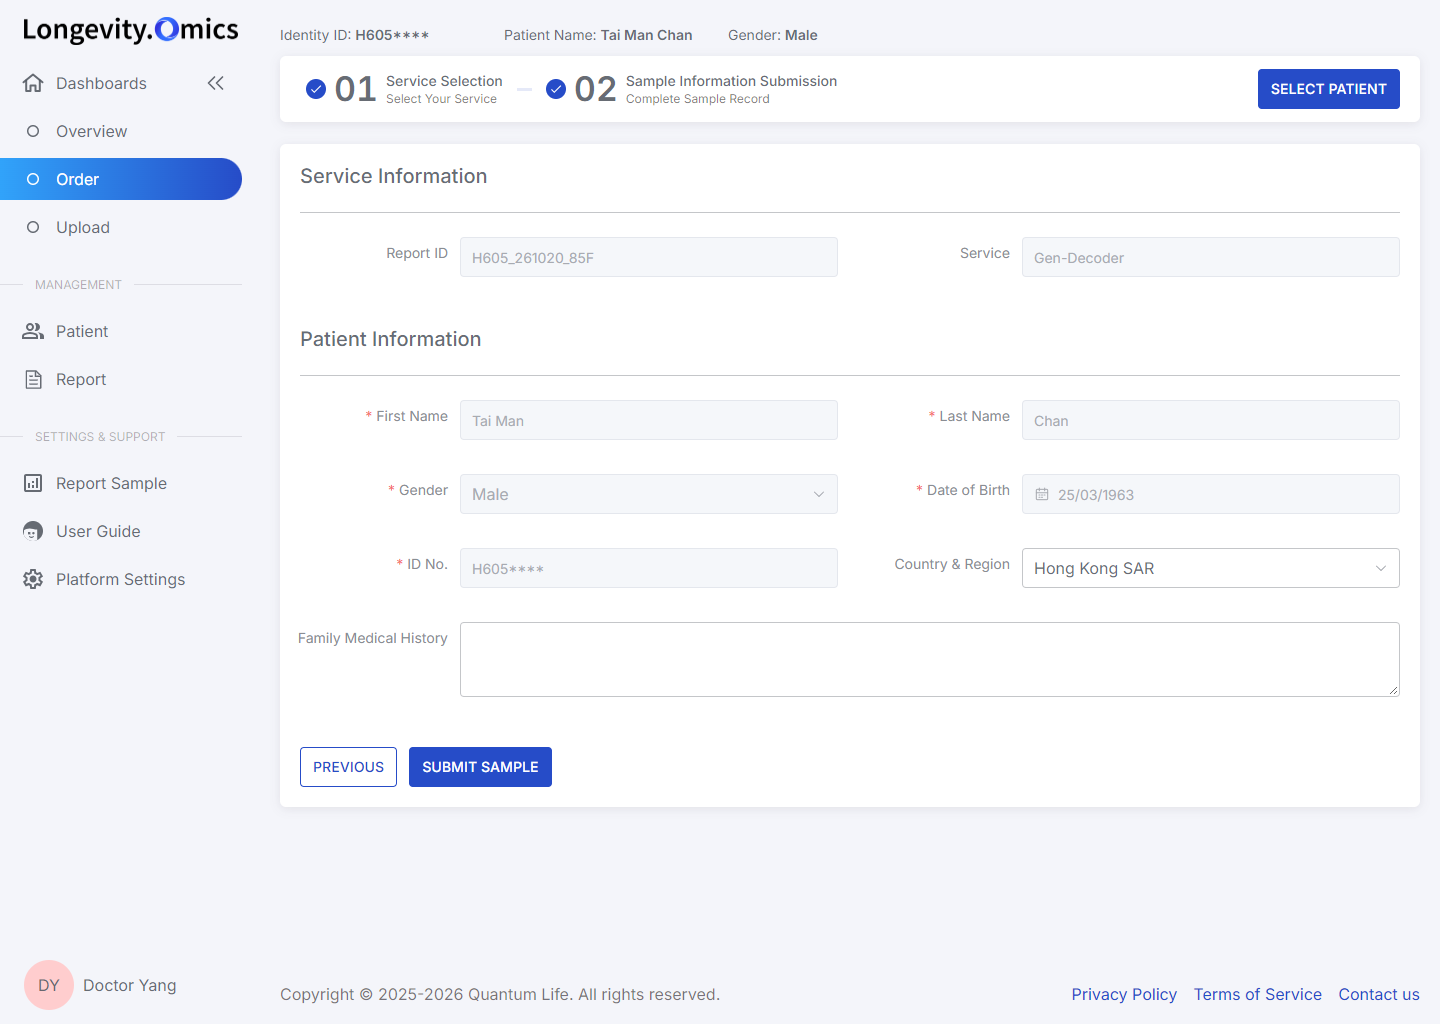
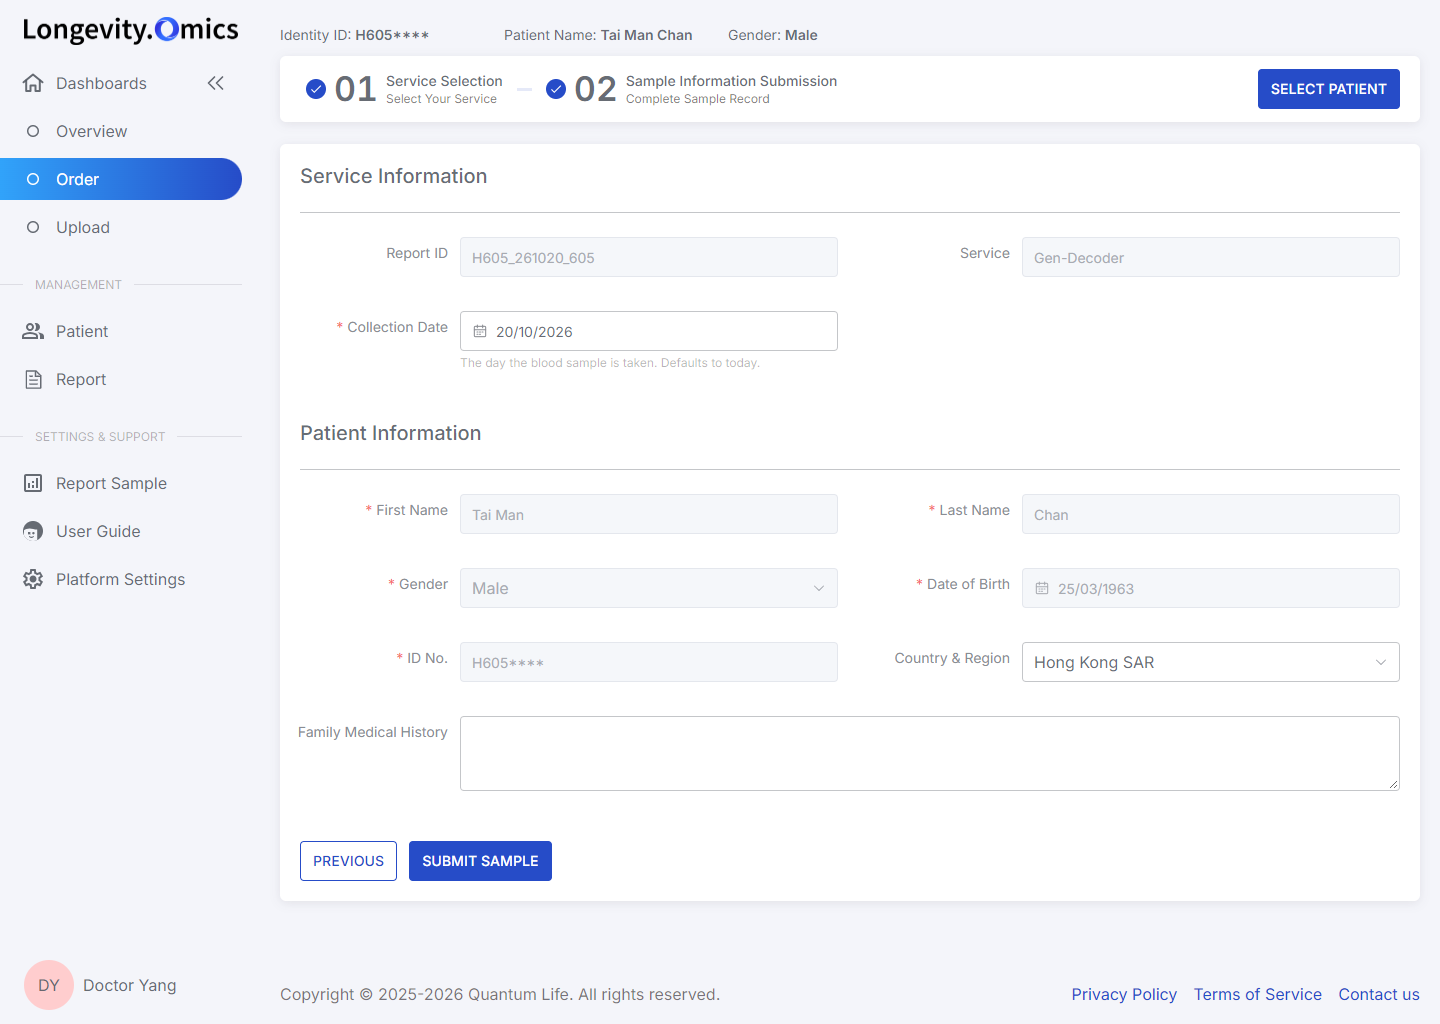
Order step 2: Collection Date in Service Information
- Tests (Gen-Decoder, Epi-Insight, bundle) get a required Collection Date, defaulting to today; future dates cannot be picked
- Omni-Health shows a read-only Created Date instead, since no sample is collected
- Submitted test orders are dated by the chosen collection date in Report Management and the patient file
- Form popovers (calendar and dropdowns) now anchor to the form card

diff --git a/index.html b/index.html
@@ -279,7 +279,7 @@ tr.other .tag{opacity:.75}
 .rm-body{font-size:14px;line-height:20px;color:var(--text)}
 .rm-body .note{margin-top:0}
 .rm-body p{margin-top:12px}
-.o-form{padding:20px}
+.o-form{padding:20px;position:relative}
 .f-sec{margin-bottom:32px}
 .f-sec h6{font-size:20px;line-height:24px;font-weight:500;color:var(--text)}
 .f-div{height:1px;background:rgba(138,141,147,.5);margin:24px 0}
@@ -302,6 +302,25 @@ tr.other .tag{opacity:.75}
 .f-in .cal{width:16px;height:16px;flex:none;color:#a8abb2}
 .f-in.err,.upl.err{border-color:#f56c6c}
 .f-err{position:absolute;left:0;top:100%;padding-top:2px;font-size:12px;line-height:1;color:#f56c6c}
+.f-hint{margin-top:4px;font-size:12px;line-height:16px;color:var(--text-3)}
+.f-in.datep{cursor:pointer;color:var(--text)}
+.f-in.datep:hover{border-color:#8A8D93}
+.f-in.datep .cal{color:var(--muted)}
+.cal-pop{width:300px;padding:10px 12px 12px}
+.cal-h{display:flex;align-items:center;gap:2px;margin-bottom:6px}
+.cal-h span{flex:1;text-align:center;font-size:14px;line-height:28px;font-weight:500;color:var(--text)}
+.cal-h button{width:28px;height:28px;border:0;background:none;border-radius:4px;color:#606266;font-size:16px;line-height:1;cursor:pointer}
+.cal-h button:hover:not([disabled]){background:var(--hover);color:var(--primary)}
+.cal-h button[disabled]{color:#C0C4CC;cursor:not-allowed}
+.cal-w,.cal-g{display:grid;grid-template-columns:repeat(7,1fr);text-align:center}
+.cal-w span{font-size:12px;line-height:28px;color:var(--text-2)}
+.dc{width:32px;height:32px;margin:1px 0;justify-self:center;border:0;border-radius:50%;background:none;font:inherit;font-size:13px;color:#606266;cursor:pointer;font-variant-numeric:tabular-nums}
+.dc:hover:not([disabled]){background:var(--hover);color:var(--primary)}
+.dc.out{color:#C0C4CC}
+.dc.today{color:var(--primary);font-weight:600}
+.dc.on,.dc.on:hover{background:var(--primary);color:#fff;font-weight:500}
+.dc[disabled]{color:#C8CAD0;cursor:not-allowed}
+.dc:focus-visible,.cal-h button:focus-visible{outline:2px solid var(--primary-outlined)}
 .f-ta{display:block;width:100%;min-height:74px;padding:5px 11px;border:1px solid var(--border);border-radius:4px;font:inherit;font-size:14px;line-height:1.5;color:var(--text);resize:vertical;outline:none}
 .f-ta:focus{border-color:var(--primary)}
 .radio-g{display:flex;align-items:center;gap:32px;height:32px}
@@ -644,6 +663,32 @@ document.querySelectorAll("[data-toast]").forEach(b => b.addEventListener("click
 
 let openDD = null;
 function closeDD(){ if (openDD) { openDD.el.remove(); openDD.anchor.classList.remove("open"); openDD = null; } }
+// Small month calendar (DD/MM/YYYY world); dates after today cannot be picked, as in the shipped app's date pickers
+const MONTHS = ["January","February","March","April","May","June","July","August","September","October","November","December"];
+function openCalendar(anchor, container, value, onPick){
+  if (openDD && openDD.anchor === anchor) { closeDD(); return; }
+  closeDD();
+  const same = (a, b) => a.getFullYear() === b.getFullYear() && a.getMonth() === b.getMonth() && a.getDate() === b.getDate();
+  let view = new Date(value.getFullYear(), value.getMonth(), 1);
+  const dd = document.createElement("div"); dd.className = "dd cal-pop";
+  const draw = () => {
+    const y = view.getFullYear(), m = view.getMonth(), lead = new Date(y, m, 1).getDay();
+    let cells = "";
+    for (let i = 0; i < 42; i++) {
+      const d = new Date(y, m, 1 - lead + i), future = d > TODAY;
+      cells += '<button type="button" class="dc' + (d.getMonth() !== m ? ' out' : '') + (same(d, TODAY) ? ' today' : '') + (same(d, value) ? ' on' : '') + '" data-t="' + d.getTime() + '"' + (future ? ' disabled' : '') + '>' + d.getDate() + '</button>';
+    }
+    dd.innerHTML = '<div class="cal-h"><button type="button" data-nav="-12" title="Previous year">\u00ab</button><button type="button" data-nav="-1" title="Previous month">\u2039</button><span>' + MONTHS[m] + ' ' + y + '</span>' +
+      '<button type="button" data-nav="1" title="Next month"' + (new Date(y, m + 1, 1) > TODAY ? ' disabled' : '') + '>\u203a</button><button type="button" data-nav="12" title="Next year"' + (new Date(y + 1, m, 1) > TODAY ? ' disabled' : '') + '>\u00bb</button></div>' +
+      '<div class="cal-w">' + ["Su","Mo","Tu","We","Th","Fr","Sa"].map(w => '<span>' + w + '</span>').join("") + '</div><div class="cal-g">' + cells + '</div>';
+    dd.querySelectorAll("[data-nav]").forEach(b => b.addEventListener("click", e => { e.stopPropagation(); view = new Date(y, m + (+b.dataset.nav), 1); draw(); }));
+    dd.querySelectorAll(".dc:not([disabled])").forEach(b => b.addEventListener("click", e => { e.stopPropagation(); closeDD(); onPick(new Date(+b.dataset.t)); }));
+  };
+  draw(); container.appendChild(dd);
+  const a = anchor.getBoundingClientRect(), c = container.getBoundingClientRect();
+  dd.style.left = (a.left - c.left) + "px"; dd.style.top = (a.bottom - c.top + 4) + "px";
+  anchor.classList.add("open"); openDD = { el: dd, anchor };
+}
 function openMenu(anchor, container, items, onPick, opts={}){
   if (openDD && openDD.anchor === anchor) { closeDD(); return; }
   closeDD();
@@ -860,7 +905,7 @@ const newRid = identity => makeRid(identity, TODAY, Math.random);
 let orderSeq = 0;
 
 const O = {};
-function orderReset(){ Object.assign(O, { step: 0, p: null, details: [], country: "", family: "", gd: "", ei: "", btMode: "select", bt: "", file: null, errs: {}, pending: "", busy: false }); }
+function orderReset(){ Object.assign(O, { step: 0, p: null, details: [], collect: null, country: "", family: "", gd: "", ei: "", btMode: "select", bt: "", file: null, errs: {}, pending: "", busy: false }); }
 orderReset();
 // Every report on file for the patient (any doctor, any status), plus body tests — same source the shipped app uses
 function orderReports(){
@@ -908,6 +953,7 @@ function chooseService(svc, confirmed){
   O.details = svc === "Gen-Decoder,Epi-Insight"
     ? [{ reportId: newRid(O.p.identity), service: "Gen-Decoder", type: "Pro" }, { reportId: newRid(O.p.identity), service: "Epi-Insight", type: "" }]
     : [{ reportId: newRid(O.p.identity), service: svc, type: "" }];
+  O.collect = new Date(TODAY);   // Collection Date defaults to today
   O.step = 1; O.errs = {}; renderOrder(); $("#main").scrollTop = 0;
 }
 function flashCard(svc){
@@ -956,7 +1002,11 @@ function orderFormHTML(){
   const p = O.p, isOmni = O.details.some(d => d.service === "Omni-Health");
   const rs = orderReports(), lab = id => { const r = rs.find(x => x.id === id); return r ? r.service + "  " + fmtDate(r.date) : ""; };
   let h = '<div class="card o-form"><div class="f-sec"><h6>Service Information</h6><div class="f-div"></div>' +
-    O.details.map(d => '<div class="f-row">' + fld("Report ID", false, fDis(d.reportId)) + fld("Service", false, fDis(d.service)) + '</div>').join("") + '</div>';
+    O.details.map(d => '<div class="f-row">' + fld("Report ID", false, fDis(d.reportId)) + fld("Service", false, fDis(d.service)) + '</div>').join("") +
+    (isOmni
+      ? '<div class="f-row">' + fld("Created Date", false, '<div class="f-in dis">' + ICON.cal + esc(fmtDate(TODAY)) + '</div><div class="f-hint">No sample is collected for Omni-Health, so its date is the day the order is created.</div>') + '<div class="f-col"></div></div>'
+      : '<div class="f-row">' + fld("Collection Date", true, '<div class="f-in datep' + (O.errs.collect ? ' err' : '') + '" id="o-collect" tabindex="0" role="button" aria-label="Collection date">' + ICON.cal + '<span>' + (O.collect ? fmtDate(O.collect) : '') + '</span></div><div class="f-hint">The day the blood sample is taken. Defaults to today.</div>', "collect") + '<div class="f-col"></div></div>') +
+    '</div>';
   h += '<div class="f-sec"><h6>Patient Information</h6><div class="f-div"></div>' +
     '<div class="f-row">' + fld("First Name", true, fDis(p.first)) + fld("Last Name", true, fDis(p.last)) + '</div>' +
     '<div class="f-row">' + fld("Gender", true, fPick("", p.gender, "", "", true)) + fld("Date of Birth", true, '<div class="f-in dis">' + ICON.cal + esc(fmtDate(p.dob)) + '</div>') + '</div>' +
@@ -995,6 +1045,11 @@ function bindOrderForm(){
   const bindPick = (id, key, items, opts) => { const el = $("#" + id); if (!el) return;
     el.addEventListener("click", e => { e.stopPropagation(); openMenu(el, card, items().map(it => Object.assign(it, { sel: it.value === O[key] })), v => { O[key] = v; delete O.errs[key]; renderOrder(); }, Object.assign({ field: true, empty: "No data" }, opts || {})); }); };
   const reportItems = svc => () => rs.filter(r => r.service === svc).map(r => ({ label: svc + "  " + fmtDate(r.date), value: r.id }));
+  const oc = $("#o-collect");
+  if (oc) {
+    const pickDate = e => { e.stopPropagation(); openCalendar(oc, card, O.collect || TODAY, d => { O.collect = d; delete O.errs.collect; renderOrder(); }); };
+    oc.addEventListener("click", pickDate); oc.addEventListener("keydown", e => { if (e.key === "Enter" || e.key === " ") { e.preventDefault(); pickDate(e); } });
+  }
   bindPick("o-country", "country", () => ORDER_COUNTRIES.map(c => ({ label: c, value: c })), { filter: true });
   bindPick("o-gd", "gd", reportItems("Gen-Decoder")); bindPick("o-ei", "ei", reportItems("Epi-Insight")); bindPick("o-bt", "bt", reportItems("Body Test"));
   $("#o-family").addEventListener("input", e => { O.family = e.target.value; });
@@ -1020,6 +1075,7 @@ function takeFile(f){
 function submitOrder(){
   if (O.busy) return;
   const isOmni = O.details.some(d => d.service === "Omni-Health"); O.errs = {};
+  if (!isOmni && !O.collect) O.errs.collect = "Please select collection date";
   if (isOmni) {
     if (!O.gd) O.errs.gd = "Please select Gen-Decoder report";
     if (!O.ei) O.errs.ei = "Please select Epi-Insight report";
@@ -1037,7 +1093,9 @@ function finishOrder(uploaded){
   if (uploaded) { btId = newRid(p.identity); bodyTests.push({ pid: p.pid, name: p.name, type: "Body Test", code: "BT", cls: "bt", date: when, status: "Available", mine: true, rid: btId, patient: p, file: O.file.name }); myReports.push(bodyTests[bodyTests.length - 1]); }
   O.details.forEach(d => {
     const m = TYPE_META[d.service];
-    const r = { pid: p.pid, name: p.name, type: d.service, code: m[0], cls: m[1], date: when, status: "Ordered", patient: p, mine: true, rid: d.reportId,
+    // tests are dated by the sample's collection date; Omni-Health by the day it is created
+    const date = d.service === "Omni-Health" || !O.collect ? when : new Date(O.collect.getTime() + 12 * 3600e3 + orderSeq * 1000);
+    const r = { pid: p.pid, name: p.name, type: d.service, code: m[0], cls: m[1], date, status: "Ordered", patient: p, mine: true, rid: d.reportId,
                 sources: d.service === "Omni-Health" ? { gd: O.gd, ei: O.ei, bt: btId } : null };
     reports.push(r); myReports.push(r);
     (CREDIT_KEYS[d.service] || []).forEach(k => clinicCredits[k]--);
